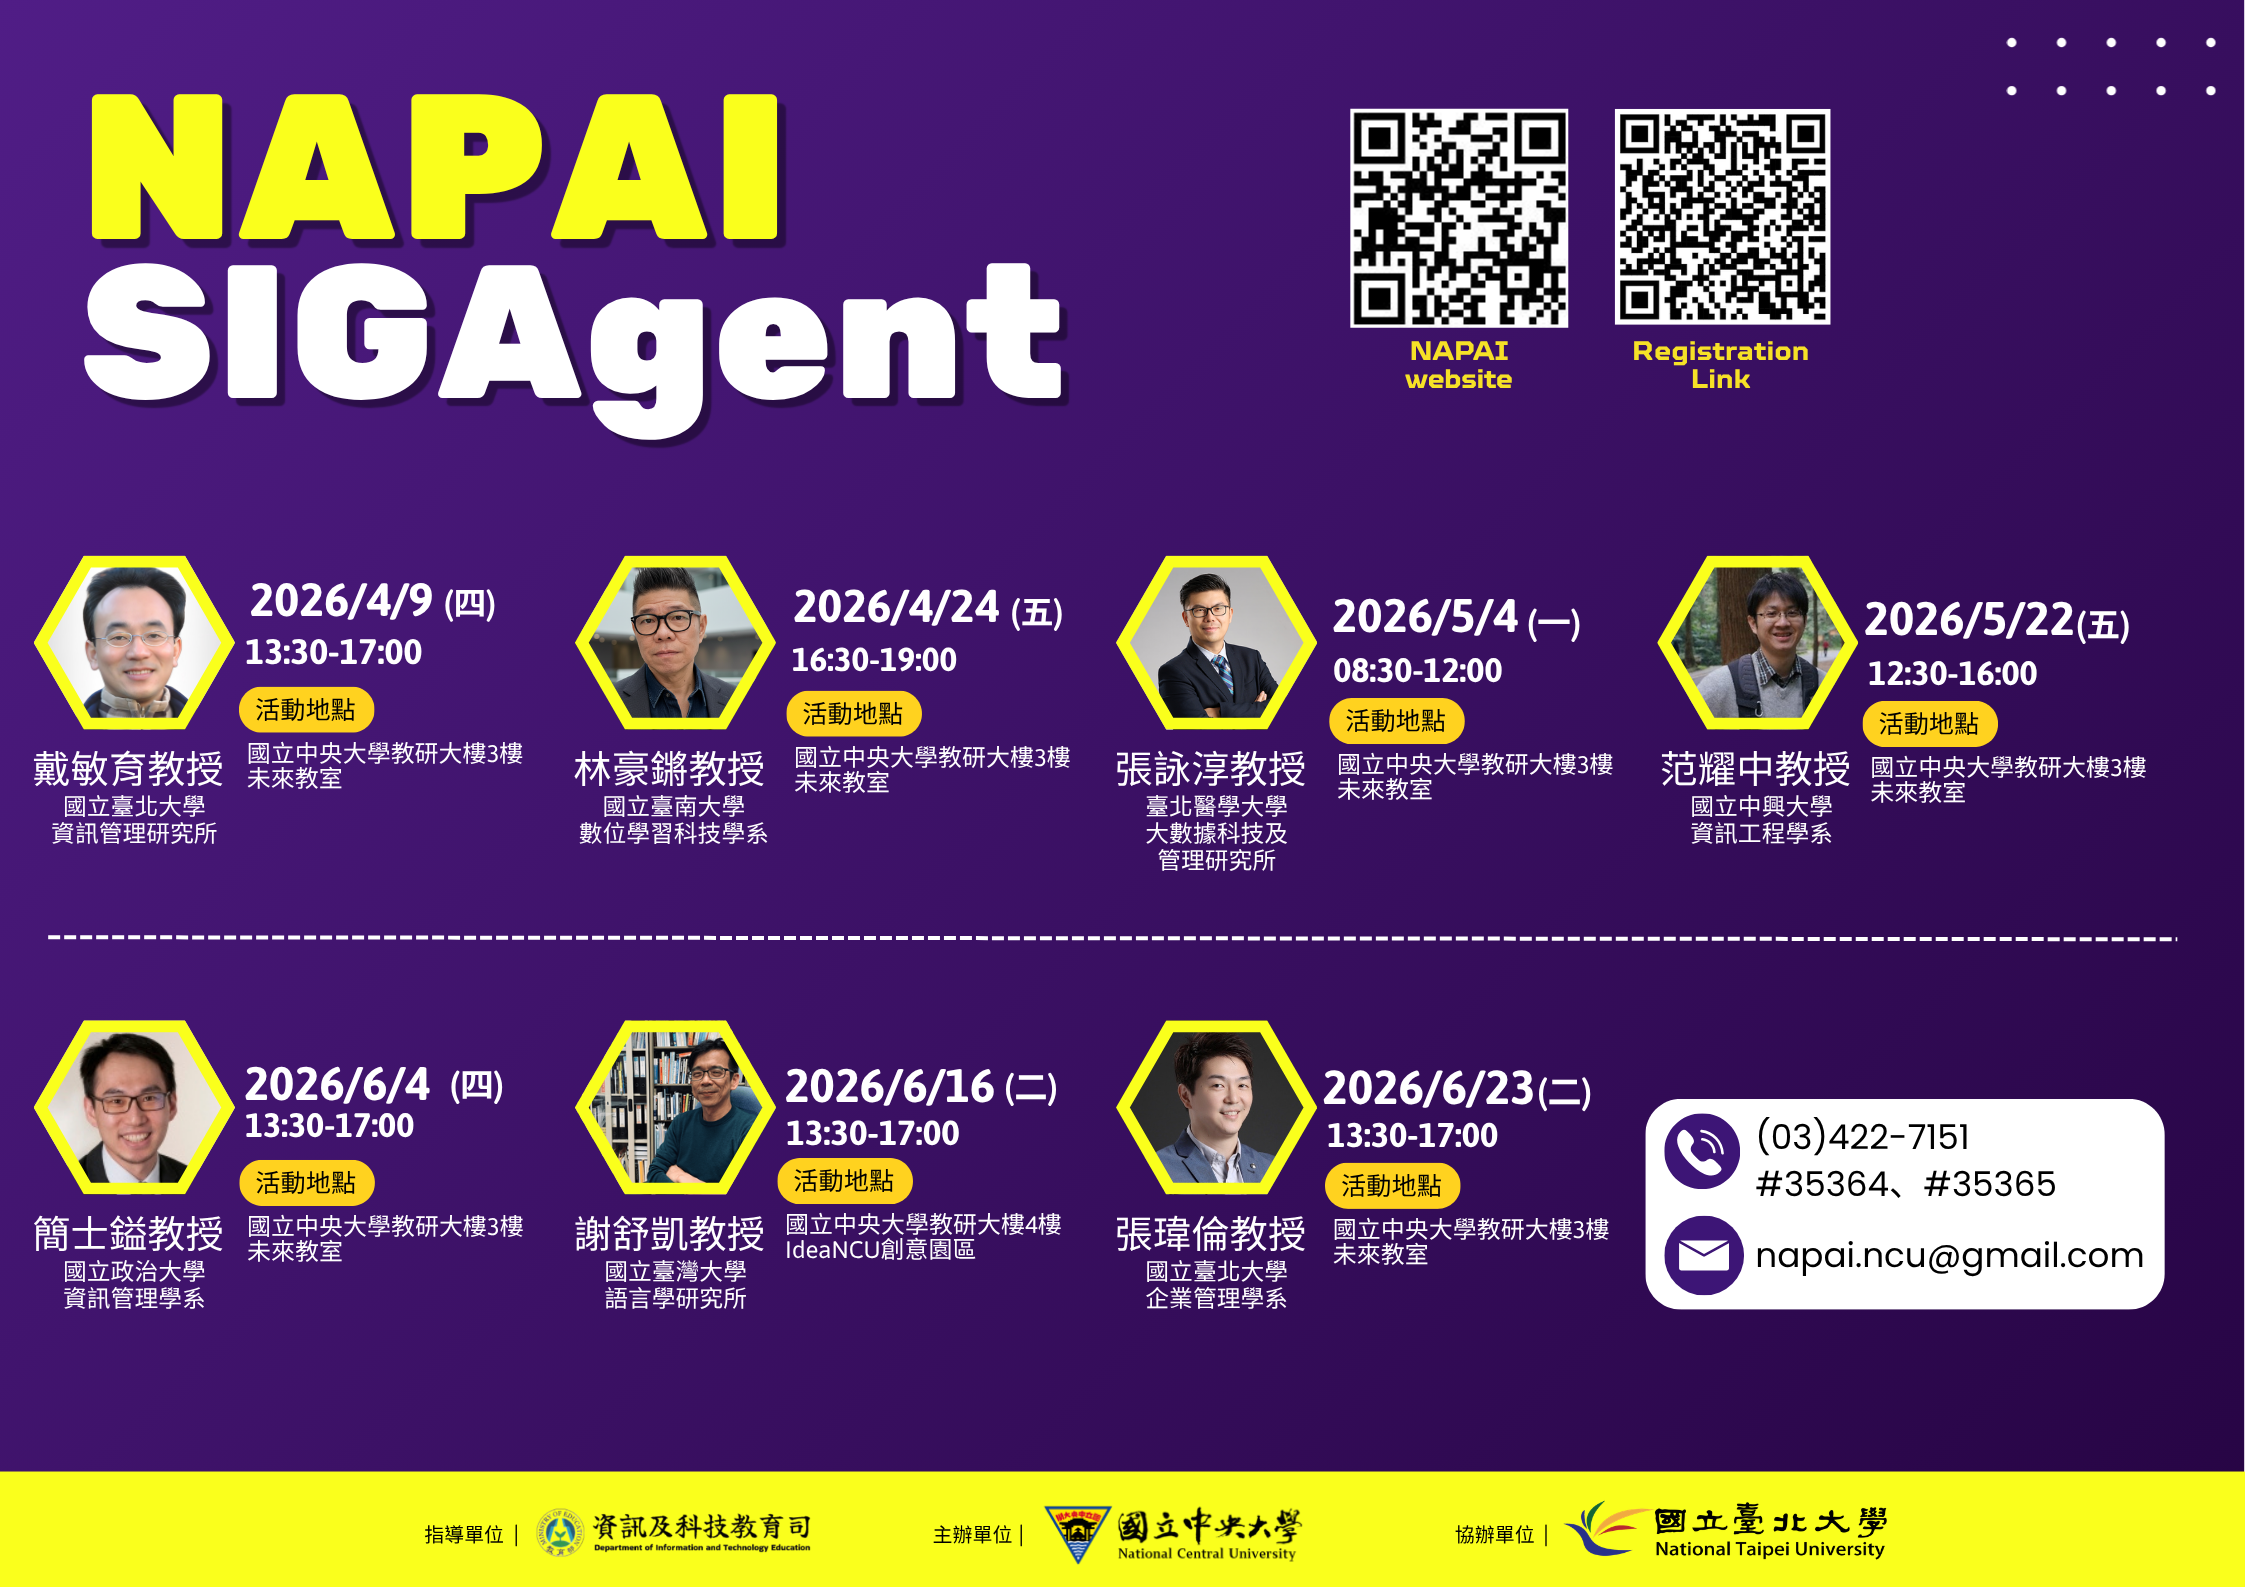
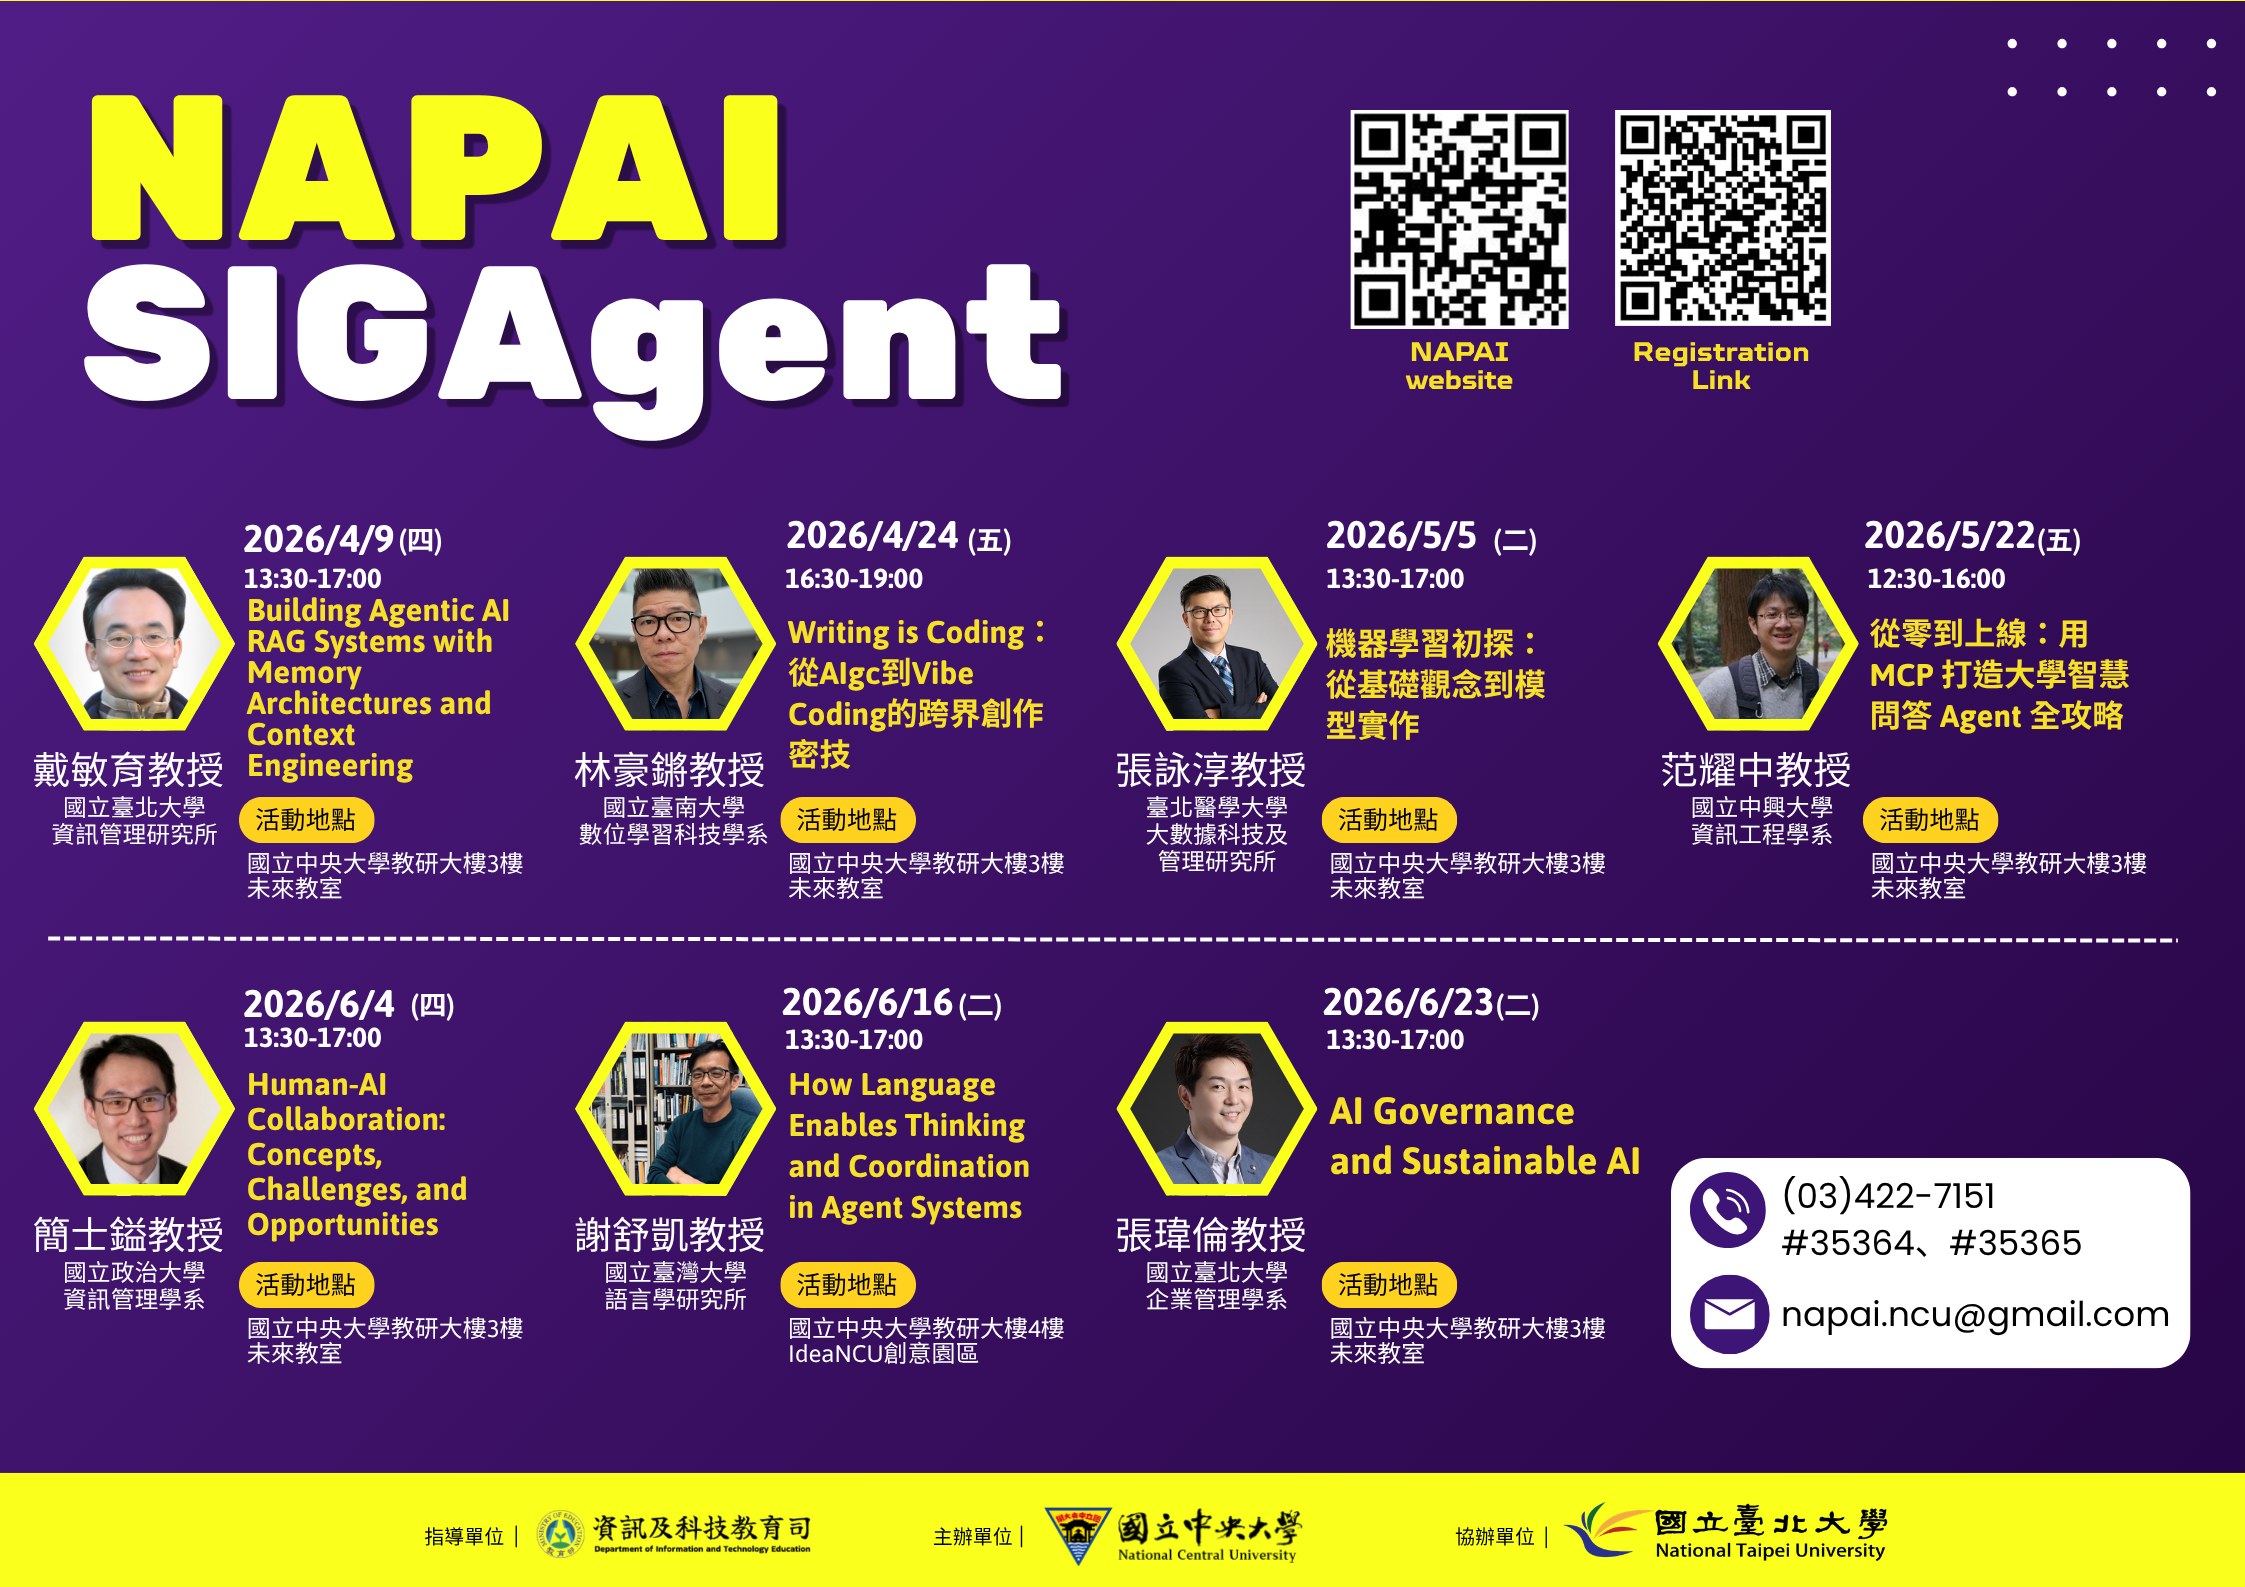
feat: 更新 NAPAI SIGAgent 場次資訊，修正活動日期

diff --git a/content/news/2026/03/napai-sigagent-registration.md b/content/news/2026/03/napai-sigagent-registration.md
@@ -25,7 +25,7 @@ NAPAI SIGAgent 活動開放報名。
 | -------------- | ----------- | --------------------------------------------- | ------------------------------------- |
 | 2026/4/9 (四)  | 13:30-17:00 | 國立臺北大學資訊管理研究所 戴敏育教授         | 國立中央大學教研大樓 三樓未來教室     |
 | 2026/4/24 (五) | 16:30-19:00 | 國立臺南大學數位學習科技學系 林豪鏘教授       | 國立中央大學教研大樓 三樓未來教室     |
-| 2026/5/4 (一)  | 08:30-12:00 | 臺北醫學大學大數據科技及管理研究所 張詠淳教授 | 國立中央大學教研大樓 三樓未來教室     |
+| 2026/5/5 (二)  | 13:30-17:00 | 臺北醫學大學大數據科技及管理研究所 張詠淳教授 | 國立中央大學教研大樓 三樓未來教室     |
 | 2026/5/22 (五) | 12:30-16:00 | 國立中興大學資訊工程學系 范耀中教授           | 國立中央大學教研大樓 三樓未來教室     |
 | 2026/6/4 (四)  | 13:30-17:00 | 國立政治大學資訊管理學系 簡士鎰副教授         | 國立中央大學教研大樓 三樓未來教室     |
 | 2026/6/16 (二) | 13:30-17:00 | 國立臺灣大學語言學研究所 謝舒凱教授           | 國立中央大學教研大樓 四樓中大創意園區 |
